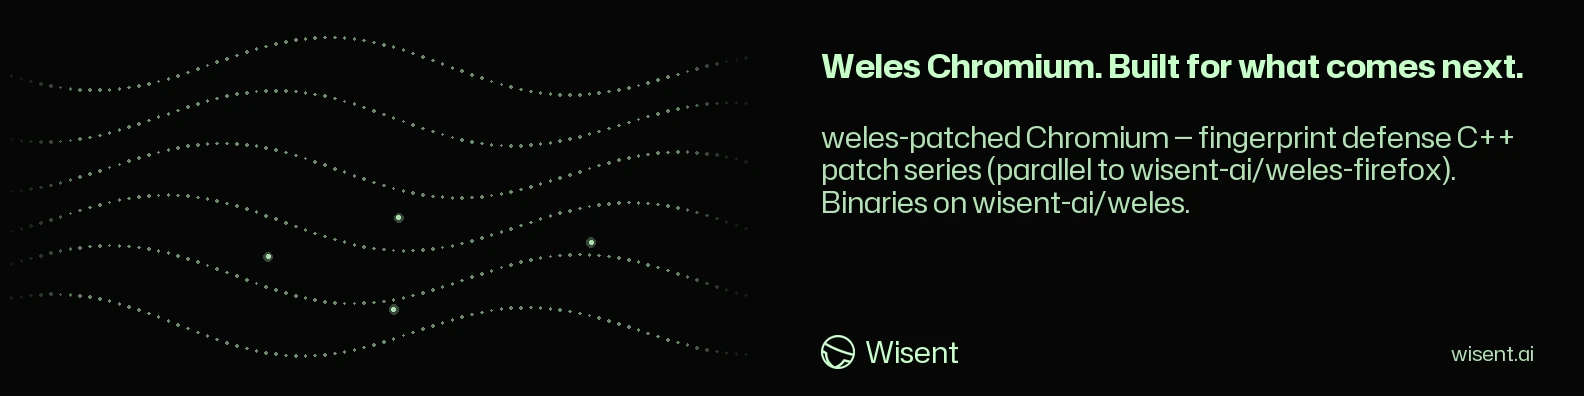
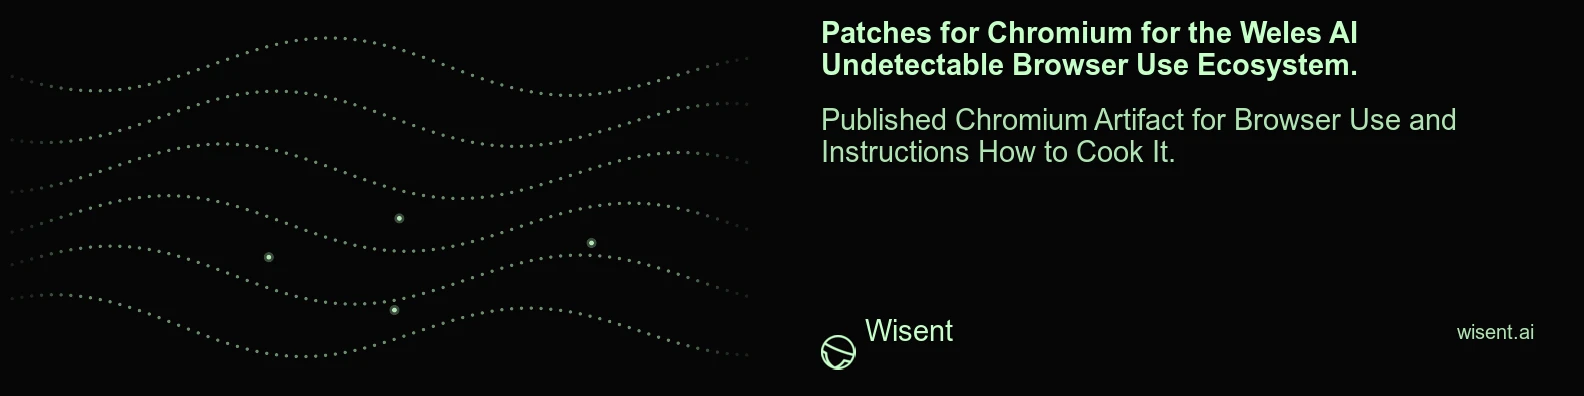
Name the Chromium artifact repository (#3)

diff --git a/README.md b/README.md
@@ -8,14 +8,13 @@
 [![Source](https://img.shields.io/badge/GitHub-Source-181717?logo=github)](https://github.com/wisent-ai/weles-chromium) [![Issues](https://img.shields.io/badge/GitHub-Issues-181717?logo=github)](https://github.com/wisent-ai/weles-chromium/issues) [![Wisent](https://img.shields.io/badge/Wisent-Website-0B0B0B)](https://wisent.ai) [![Discord](https://img.shields.io/badge/Discord-Join-5865F2?logo=discord&logoColor=white)](https://discord.gg/qRjpkthq54) [![LinkedIn](https://img.shields.io/badge/LinkedIn-Follow-0A66C2?logo=linkedin&logoColor=white)](https://www.linkedin.com/company/wisent-ai/) [![X](https://img.shields.io/badge/X-Follow-000000?logo=x&logoColor=white)](https://x.com/wisentai) [![Enterprise](https://img.shields.io/badge/Enterprise-Book%20a%20call-0B0B0B?logo=calendly)](https://calendly.com/lbartoszcze)
 <!-- wisent-readme-signals:end -->
 
-# weles-chromium
+# Patches for Chromium for the Weles AI Undetectable Browser Use Ecosystem
 
-The weles fingerprint-defense patch series for Chromium, as a reviewable
-patch set (parallel to [`wisent-ai/weles-firefox`](https://github.com/wisent-ai/weles-firefox)).
+Published Chromium Artifact for Browser Use and Instructions How to Cook It.
 
-Compiled binaries ship from this repository's own GitHub Releases channel using
-the tag scheme `chromium-<upstream-version>-weles.N`. Weles hosts consume that
-channel through `weles/scripts/chromium/download.sh`.
+This repository carries the Chromium patches, build instructions,
+verification, and artifact-publishing process used by Weles. It is parallel to
+[`wisent-ai/weles-firefox`](https://github.com/wisent-ai/weles-firefox).
 
 This repository is the source of truth for the C++ delta and the release
 contract. It does not vendor the Chromium checkout; it carries only the patches
